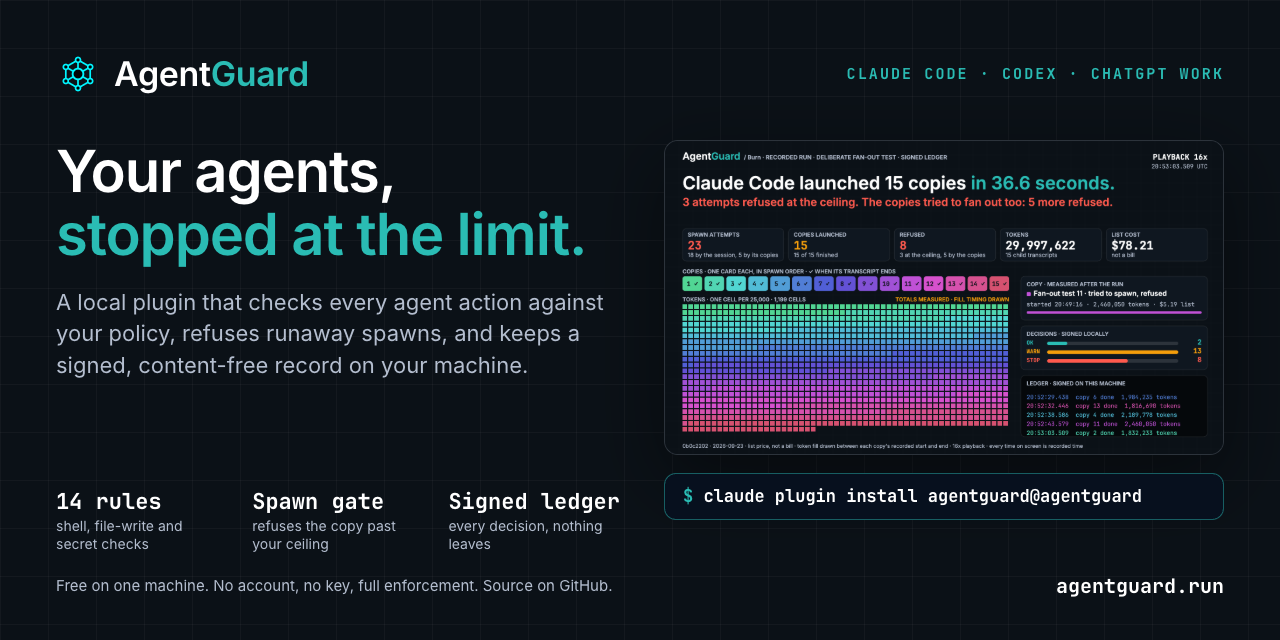
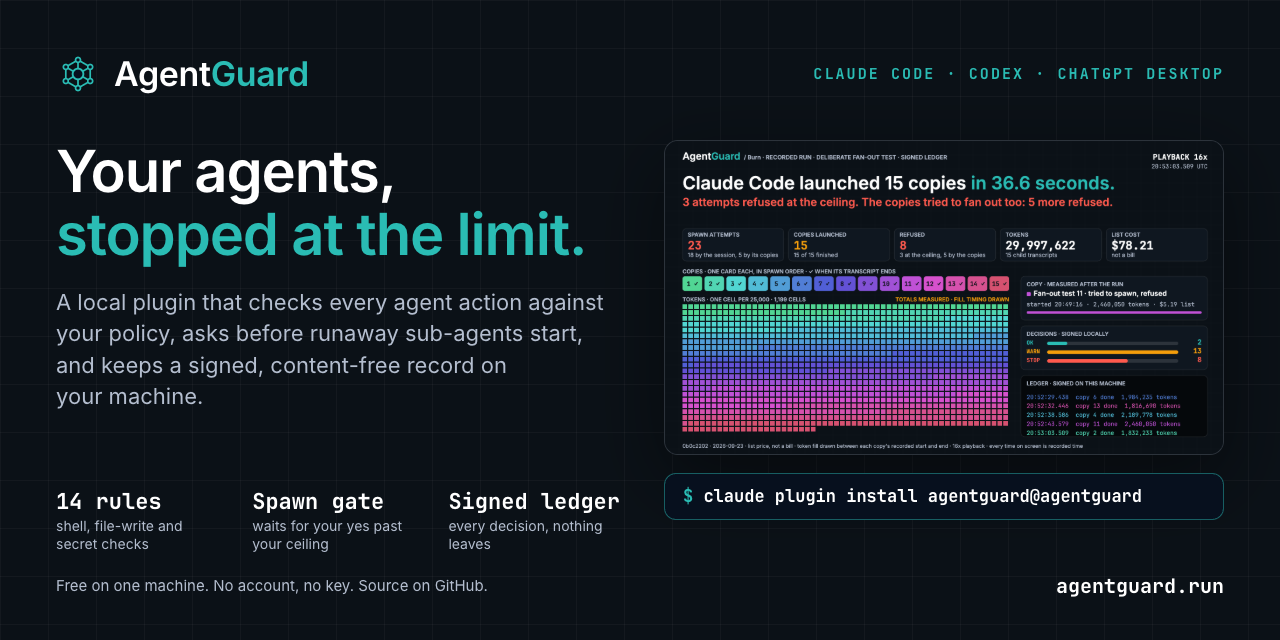
Plugin 0.3.14: run Burn 0.3.20 and use the new social card

diff --git a/README.md b/README.md
@@ -1,6 +1,6 @@
 # AgentGuard for Claude Code, Codex and the ChatGPT desktop app
 
-![AgentGuard: your agents, stopped at the limit. A local plugin that checks agent actions against your policy, refuses runaway spawns and keeps a signed, content-free record on your machine. Free on one machine.](assets/social-card.png)
+![AgentGuard: your agents, stopped at the limit. A local plugin that checks every agent action against your policy, asks before runaway sub-agents start, and keeps a signed, content-free record on your machine. Free on one machine.](assets/social-card.png)
 
 When a Claude Code session passes 15 sub-agents in 15 active minutes, 40 in 120 active minutes, or 5 billion tokens, AgentGuard makes the next launch wait for your yes (in Codex, it is refused until you allow it). To see where a session's tokens went, run `npx agentguard-burn why`. AgentGuard runs on your machine and is free on one machine.
 
@@ -185,7 +185,7 @@ root after adding the plugin and run `npm ci` to provision the locked registry
 dependencies.
 
 The plugin depends on published `@agentguard-run/spend ^0.20.0` and
-`@agentguard-run/burn ^0.3.19`. It uses no sibling links. Burn's lockfile
+`@agentguard-run/burn ^0.3.20`. It uses no sibling links. Burn's lockfile
 entries include an optional native canvas package for each platform; npm
 installs only the one this machine runs, and the dependency check accepts the
 others as absent while still checking any that are present. Codex's Git

diff --git a/compat/codex-0.154/agentguard/README.md b/compat/codex-0.154/agentguard/README.md
@@ -1,6 +1,6 @@
 # AgentGuard for Claude Code, Codex and the ChatGPT desktop app
 
-![AgentGuard: your agents, stopped at the limit. A local plugin that checks agent actions against your policy, refuses runaway spawns and keeps a signed, content-free record on your machine. Free on one machine.](assets/social-card.png)
+![AgentGuard: your agents, stopped at the limit. A local plugin that checks every agent action against your policy, asks before runaway sub-agents start, and keeps a signed, content-free record on your machine. Free on one machine.](assets/social-card.png)
 
 When a Claude Code session passes 15 sub-agents in 15 active minutes, 40 in 120 active minutes, or 5 billion tokens, AgentGuard makes the next launch wait for your yes (in Codex, it is refused until you allow it). To see where a session's tokens went, run `npx agentguard-burn why`. AgentGuard runs on your machine and is free on one machine.
 
@@ -185,7 +185,7 @@ root after adding the plugin and run `npm ci` to provision the locked registry
 dependencies.
 
 The plugin depends on published `@agentguard-run/spend ^0.20.0` and
-`@agentguard-run/burn ^0.3.19`. It uses no sibling links. Burn's lockfile
+`@agentguard-run/burn ^0.3.20`. It uses no sibling links. Burn's lockfile
 entries include an optional native canvas package for each platform; npm
 installs only the one this machine runs, and the dependency check accepts the
 others as absent while still checking any that are present. Codex's Git

diff --git a/CHANGELOG.md b/CHANGELOG.md
@@ -1,3 +1,9 @@
+## 0.3.14 - 2026-09-27
+
+- Runs Burn 0.3.20 (the plugin now depends on `@agentguard-run/burn ^0.3.20`). `npx agentguard-burn calendar` shows tokens per day for every Claude Code and Codex session on this machine, and `npx agentguard-burn why` now ends with the one change that matters most for that session.
+- Burn's help and version flags work: `npx agentguard-burn help` prints the help and `npx agentguard-burn -v` prints the version, and both exit cleanly.
+- A new social card, which says AgentGuard asks before runaway sub-agents start.
+
 ## 0.3.13 - 2026-09-27
 
 - Claude Code installs the plugin's dependencies by itself, so installing there is now just the two `claude plugin` commands. If AgentGuard says its dependencies are missing, run `npm ci` in the plugin folder it names. Codex and ChatGPT Work still need `npm ci` after installing.

diff --git a/compat/codex-0.154/agentguard/CHANGELOG.md b/compat/codex-0.154/agentguard/CHANGELOG.md
@@ -1,3 +1,9 @@
+## 0.3.14 - 2026-09-27
+
+- Runs Burn 0.3.20 (the plugin now depends on `@agentguard-run/burn ^0.3.20`). `npx agentguard-burn calendar` shows tokens per day for every Claude Code and Codex session on this machine, and `npx agentguard-burn why` now ends with the one change that matters most for that session.
+- Burn's help and version flags work: `npx agentguard-burn help` prints the help and `npx agentguard-burn -v` prints the version, and both exit cleanly.
+- A new social card, which says AgentGuard asks before runaway sub-agents start.
+
 ## 0.3.13 - 2026-09-27
 
 - Claude Code installs the plugin's dependencies by itself, so installing there is now just the two `claude plugin` commands. If AgentGuard says its dependencies are missing, run `npm ci` in the plugin folder it names. Codex and ChatGPT Work still need `npm ci` after installing.

diff --git a/compat/codex-0.154/agentguard/docs/DIRECTORY_SUBMISSION.md b/compat/codex-0.154/agentguard/docs/DIRECTORY_SUBMISSION.md
@@ -1,6 +1,6 @@
 # AgentGuard directory submission pack
 
-Prepared for version 0.3.13 on 2026-09-27. This is a review pack, not a submitted or approved listing. No directory draft, publication or remote MCP deployment was created by preparing it.
+Prepared for version 0.3.14 on 2026-09-27. This is a review pack, not a submitted or approved listing. No directory draft, publication or remote MCP deployment was created by preparing it.
 
 ## Submission route
 
@@ -19,7 +19,7 @@ The proposed public developer name is AgentGuard. The publisher must select its 
 Listing values follow. Business identity verification remains pending.
 
 - Package name: `agentguard`.
-- Version: `0.3.13`.
+- Version: `0.3.14`.
 - Display name: `AgentGuard`.
 - Short description: `Tool policy and signed records`.
 - Developer name: `AgentGuard`.

diff --git a/docs/DIRECTORY_SUBMISSION.md b/docs/DIRECTORY_SUBMISSION.md
@@ -1,6 +1,6 @@
 # AgentGuard directory submission pack
 
-Prepared for version 0.3.13 on 2026-09-27. This is a review pack, not a submitted or approved listing. No directory draft, publication or remote MCP deployment was created by preparing it.
+Prepared for version 0.3.14 on 2026-09-27. This is a review pack, not a submitted or approved listing. No directory draft, publication or remote MCP deployment was created by preparing it.
 
 ## Submission route
 
@@ -19,7 +19,7 @@ The proposed public developer name is AgentGuard. The publisher must select its 
 Listing values follow. Business identity verification remains pending.
 
 - Package name: `agentguard`.
-- Version: `0.3.13`.
+- Version: `0.3.14`.
 - Display name: `AgentGuard`.
 - Short description: `Tool policy and signed records`.
 - Developer name: `AgentGuard`.
